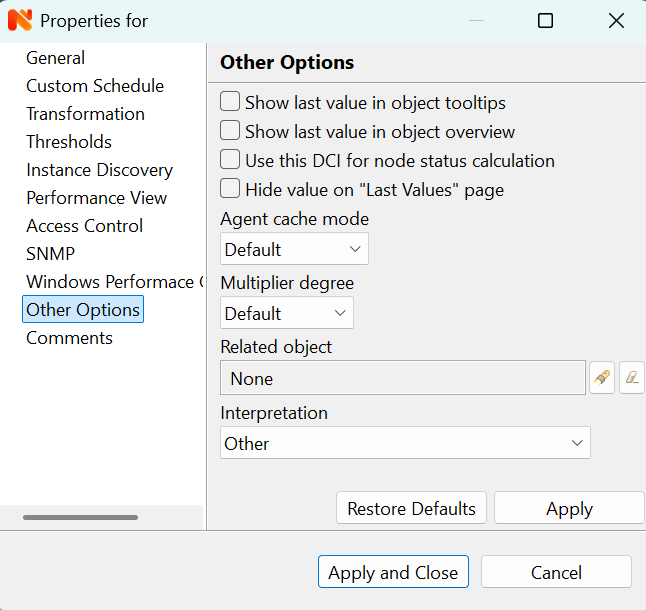
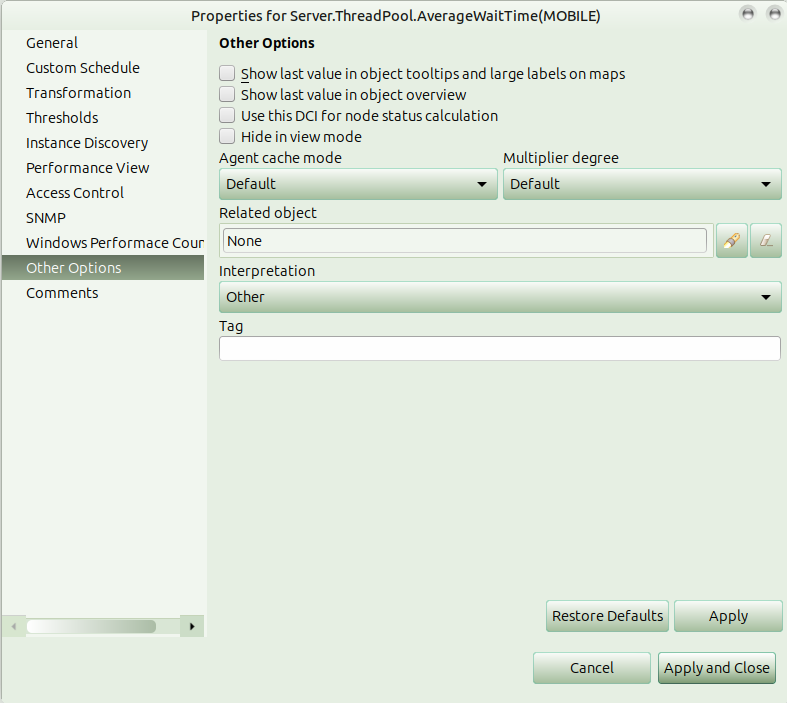
updated other options in DCI properties

diff --git a/admin/data-collection.rst b/admin/data-collection.rst
@@ -502,6 +502,8 @@ When adding or modifying a threshold, you will see the following dialog:
 
 .. figure:: _images/threshold_configuration_dialog.png
 
+    Threshold configuration dialog
+
 
 First, you have to select what value will be checked:
 
@@ -1009,7 +1011,6 @@ request.
     DCI configuration access control property page
 
 
-
 SNMP
 ----
 
@@ -1019,11 +1020,26 @@ version for data collection.
 
 .. figure:: _images/dci_snmp_page.png
 
+    DCI configuration SNMP property page
+
 
 Windows Performance Counters
 ----------------------------
 
+This page provides additional options for Windows Performance Counters data
+collection.
+
+.. note::
+
+   Some Windows performance counters, such as
+   ``\Processor Information(_Total)\% Processor Utility``, require the
+   **Sample count** to be set to 2. This is because certain performance counters
+   need to be queried twice to calculate a delta value. 
+
 .. figure:: _images/dci_wpc_page.png
+
+    DCI configuration Windows Performance Counters property page
+
 
 .. _dci-other-options-label:
 
@@ -1032,16 +1048,29 @@ Other options
 
 Other available options:
 
-    - Show last value in object tooltip - shows DCI last value on tooltip that
-      is shown on network maps.
-    - Show last value in object overview - shows DCI last value on
-      :guilabel:`Overview`->\ :guilabel:`Last Values` page.
-    - Use this DCI for node status calculation - Uses value returned by this DCI
+
+    - `Show last value in object tooltips and large labels on maps` - last value
+      of this DCI is shown in tooltips and large labels on network maps. 
+    - `Show last value in object overview` - last value of this DCI is shown in
+      :guilabel:`Last Values` section of :guilabel:`Overview` tab. 
+    - `Use this DCI for node status calculation` - Uses value returned by this DCI
       as a status, that participate in object status calculation. Such kind of
       DCI should return integer number from 0 till 4 representing object status.
-    - Related object - object that is related to collected DCI. Related object
-      can be set by instance discovery filter script and accessed in NXSL from
-      DCI object. 
+    - `Hide in view mode` - hides DCI from Data Collection tab when it is in view
+      mode. Useful for DCIs that are used only for internal calculations. 
+    - `Agent cache mode` - override node level agent cache mode setting for
+      this DCI.
+    - `Multiplier degree` - set fixed multiplier degree for this DCI. This setting
+      is used for display purposes only, however will be used when macro
+      %<{format-specifier}name> is used.   
+    - `Related object` - object that is related to collected DCI, e.g. node's
+      network interface. Related object can be set by instance discovery filter
+      script and accessible in NXSL from DCI object. 
+    - `Interpretation` - allows to specify that DCI collects network traffic
+      value. Used by network maps to display traffic information.
+    - `Tag` -  free-form text string that can be used to tag DCIs. Allows to
+      filter DCIs in Data Collection tab, match DCIs to display on dashboards,
+      find DCIs from NXSL scripts, etc.
 
 
 .. figure:: _images/dci_other_opt_page.png
@@ -1163,25 +1192,32 @@ Agent cache mode can be configured:
     settings) in DCI properties on :guilabel:`Other Options` page.
 
 
-
-
-
 .. _last-values:
 
 Data Collection tab
 ===================
 
-Data Collection tab provides information about all data collected
-on a node: DCI last value, last collection timestamp and threshold status.
+Data Collection tab allows to view collected data and change configuration of
+DCIs. There are two modes - view and edit. In view mode the following
+information is displayed for each DCI: ID, display name, last value, last
+collection timestamp and threshold status.
 
-It is possible to check last values or raw last values in textual format or as a
-chart by right clicking on DCI and selecting corresponding display format.
+.. note::
 
+    In view mode, instance discovery prototypes are not displayed. Additionally,
+    disabled or unsupported DCIs may not be visible by default. Settings in the
+    context menu control whether these DCIs are displayed.
+
+Double-clicking a a DCI in view mode opens line chart for this DCI. Other types
+of charts and history of values is available from context menu of a DCI. 
 
 .. figure:: _images/dci_last_values.png
 
 
-Click on :guilabel:`Edit mode` to obtain more detaled view.
+Click on :guilabel:`Edit mode` to switch to edit mode. In this mode all DCIs
+configured on a node are displayed with detailed information including: ID,
+display name, origin, metric, units, data type, polling interval, retention
+time, tag, status, configured thresholds, template name, related object name. 
 
 
 .. figure:: _images/dci_last_values_edit.png
@@ -1232,7 +1268,7 @@ mode enabled in the following way:
 
 
 
-3. Configure agent catching mode as per instructions :ref:`above
+3. Configure agent caching mode as per instructions :ref:`above
    <agent-catch-configuration>`.
 
  
